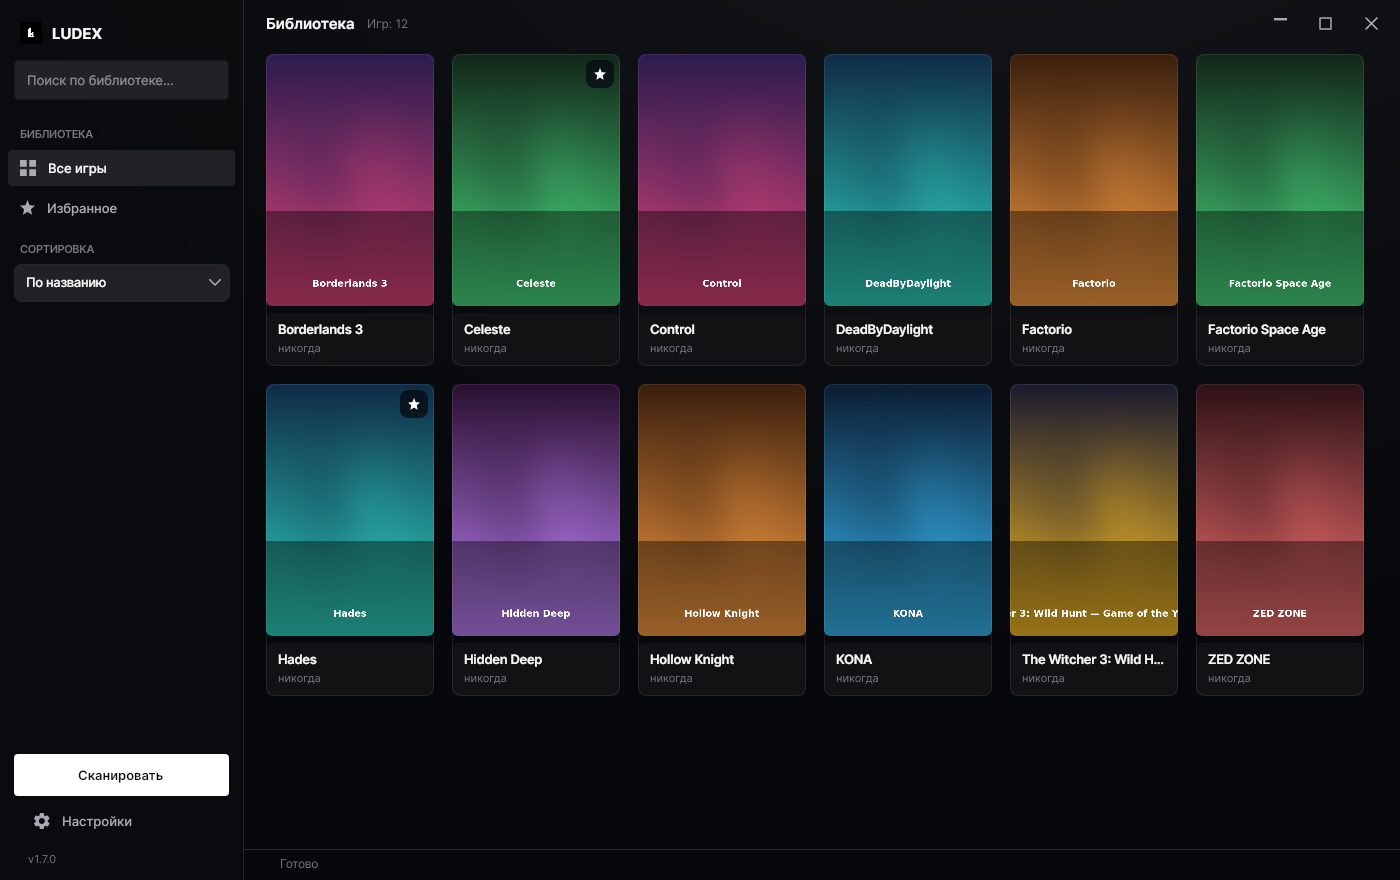
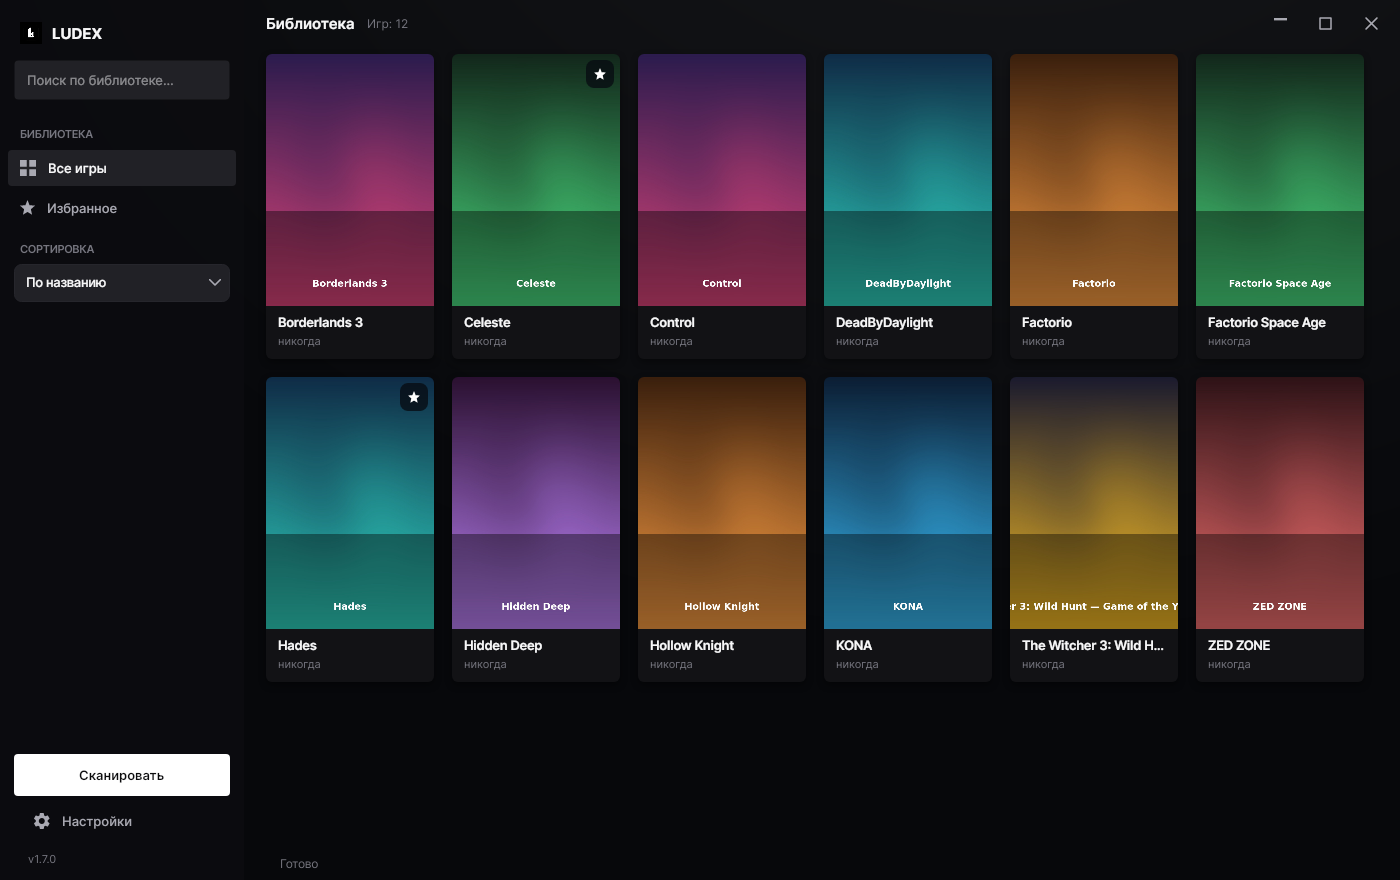
1.7.0: карточка одним блоком, без серых линий
- плашка с названием примыкает к обложке вплотную, скруглены только внешние углы
- убраны светлая обводка карточек, разделители в настройках и кастомизации,
  линии под сайдбаром и над статус-баром, обводки панелей и меню
- свечение при наведении теперь у всей карточки
- скриншоты в README и на сайте пересняты

diff --git a/src/Ludex/UI/MainWindow.cs b/src/Ludex/UI/MainWindow.cs
@@ -290,8 +290,6 @@ public sealed class MainWindow : Window
         {
             Width = 244,
             Background = Skin.BgDeep,
-            BorderBrush = Skin.Border,
-            BorderThickness = new Thickness(0, 0, 1, 0),
         };
 
         var dock = new DockPanel { LastChildFill = true };
@@ -585,8 +583,6 @@ public sealed class MainWindow : Window
         {
             Background = Brushes.Transparent,
             Padding = new Thickness(22, 7, 22, 9),
-            BorderBrush = Skin.Border,
-            BorderThickness = new Thickness(0, 1, 0, 0),
         };
 
         var grid = new Grid { ColumnDefinitions = new ColumnDefinitions("Auto,*") };
@@ -816,21 +812,20 @@ public sealed class MainWindow : Window
         textInner.Children.Add(title);
         textInner.Children.Add(subtitle);
 
+        // плашка примыкает к обложке вплотную — карточка читается одним блоком
         var textPanel = new Border
         {
             Background = Skin.CardPlate,
-            CornerRadius = new CornerRadius(6),
+            CornerRadius = new CornerRadius(0, 0, 6, 6),
             BorderThickness = new Thickness(0),
-            Margin = new Thickness(0, 7, 0, 0),
             Child = textInner,
         };
 
-        // обложка — скруглённый «постер», без подложки вокруг
+        // обложка — верхняя половина карточки, скругляются только верхние углы
         var coverFrame = new Border
         {
-            CornerRadius = new CornerRadius(6),
+            CornerRadius = new CornerRadius(6, 6, 0, 0),
             ClipToBounds = true,
-            BoxShadow = Skin.CardShadow,
             Child = coverGrid,
         };
 
@@ -838,24 +833,12 @@ public sealed class MainWindow : Window
         stack.Children.Add(coverFrame);
         stack.Children.Add(textPanel);
 
-        // тонкая светлая грань поверх карточки — «стеклянный» край
-        var glassFrame = new Border
-        {
-            BorderBrush = Skin.GlassEdge,
-            BorderThickness = new Thickness(1),
-            CornerRadius = new CornerRadius(9),
-            IsHitTestVisible = false,
-        };
-
-        var cardBody = new Grid();
-        cardBody.Children.Add(stack);
-        cardBody.Children.Add(glassFrame);
-
         var card = new Border
         {
-            Child = cardBody,
+            Child = stack,
             Background = Brushes.Transparent,
             CornerRadius = new CornerRadius(6),
+            BoxShadow = Skin.CardShadow,
             Margin = new Thickness(0, 0, CardGap, CardGap),
             Width = _cardWidth,
             Cursor = new Cursor(StandardCursorType.Hand),
@@ -875,14 +858,14 @@ public sealed class MainWindow : Window
 
         card.PointerEntered += (_, _) =>
         {
-            coverFrame.BoxShadow = Ui.GlowShadow();
+            card.BoxShadow = Ui.GlowShadow();
             hover.Opacity = 1;
             hover.IsHitTestVisible = true;
             ShowStar(true);
         };
         card.PointerExited += (_, _) =>
         {
-            coverFrame.BoxShadow = Skin.CardShadow;
+            card.BoxShadow = Skin.CardShadow;
             hover.Opacity = 0;
             hover.IsHitTestVisible = false;
             ShowStar(false);
@@ -1387,8 +1370,6 @@ public sealed class MainWindow : Window
         {
             Width = 320,
             Background = Skin.Panel,
-            BorderBrush = Skin.GlassEdge,
-            BorderThickness = new Thickness(1),
             CornerRadius = new CornerRadius(14),
             HorizontalAlignment = HorizontalAlignment.Center,
             VerticalAlignment = VerticalAlignment.Center,

diff --git a/src/Ludex/UI/SettingsPanel.cs b/src/Ludex/UI/SettingsPanel.cs
@@ -66,8 +66,6 @@ public sealed class SettingsPanel : Border
         MaxWidth = 860;
         MaxHeight = 720;
         Background = Skin.Panel;
-        BorderBrush = Skin.GlassEdge;
-        BorderThickness = new Thickness(1);
         CornerRadius = new CornerRadius(14);
         RenderTransformOrigin = new RelativePoint(0.5, 0.5, RelativeUnit.Relative);
         Transitions = new Avalonia.Animation.Transitions
@@ -145,7 +143,6 @@ public sealed class SettingsPanel : Border
         listButtons.Children.Add(_folderCount);
         body.Children.Add(listButtons);
 
-        body.Children.Add(Ui.Divider());
 
         // ---- вход в «Кастомизацию» + язык (слева)
         var lookRow = new WrapPanel { Orientation = Orientation.Horizontal };
@@ -211,7 +208,6 @@ public sealed class SettingsPanel : Border
         body.Children.Add(_ignoreBox);
         body.Children.Add(Ui.T(Loc.T("settings.ignoreHint"), 11, Skin.TextDim, wrap: TextWrapping.Wrap));
 
-        body.Children.Add(Ui.Divider());
 
         // ---- поведение
         _autoScan = new Toggle(Loc.T("settings.autoscan"), _scanOnStartup,

diff --git a/src/Ludex/UI/CustomizePanel.cs b/src/Ludex/UI/CustomizePanel.cs
@@ -39,8 +39,6 @@ public sealed class CustomizePanel : Border
         MaxWidth = 640;
         MaxHeight = 730;
         Background = Skin.Panel;
-        BorderBrush = Skin.GlassEdge;
-        BorderThickness = new Thickness(1);
         CornerRadius = new CornerRadius(14);
         RenderTransformOrigin = new RelativePoint(0.5, 0.5, RelativeUnit.Relative);
         Transitions = new Transitions
@@ -119,7 +117,6 @@ public sealed class CustomizePanel : Border
 
         body.Children.Add(picker);
 
-        body.Children.Add(Ui.Divider());
 
         // ---- прозрачность
         var transparency = new Toggle(Loc.T("custom.transparent"), _settings.Transparent, v =>

diff --git a/src/Ludex/UI/Dropdown.cs b/src/Ludex/UI/Dropdown.cs
@@ -88,8 +88,6 @@ public sealed class Dropdown : Border
         _panel = new Border
         {
             Background = new SolidColorBrush(Skin.PanelColor),
-            BorderBrush = Skin.GlassEdge,
-            BorderThickness = new Thickness(1),
             CornerRadius = new CornerRadius(10),
             Padding = new Thickness(6),
             MinWidth = width,

diff --git a/src/Ludex/UI/Menu.cs b/src/Ludex/UI/Menu.cs
@@ -27,8 +27,6 @@ public sealed class Menu
         _panel = new Border
         {
             Background = new SolidColorBrush(Skin.PanelColor),
-            BorderBrush = Skin.GlassEdge,
-            BorderThickness = new Thickness(1),
             CornerRadius = new CornerRadius(10),
             Padding = new Thickness(6),
             MinWidth = 208,

diff --git a/CHANGELOG.md b/CHANGELOG.md
@@ -26,6 +26,10 @@
   приложения, поэтому обои сквозь неё не просвечивают.
 - Подпись на карточке получила поля по 12 px: текст не прилипает к краю плашки,
   длинные названия аккуратно обрезаются многоточием.
+- Плашка примыкает к обложке вплотную — карточка читается одним блоком, скруглены только
+  внешние углы.
+- Убраны серые линии интерфейса: светлая обводка карточек, разделители в настройках
+  и кастомизации, линия под сайдбаром и над статус-баром, обводки панелей и меню.
 
 ## [1.6.0] — 2026-11-09
 
